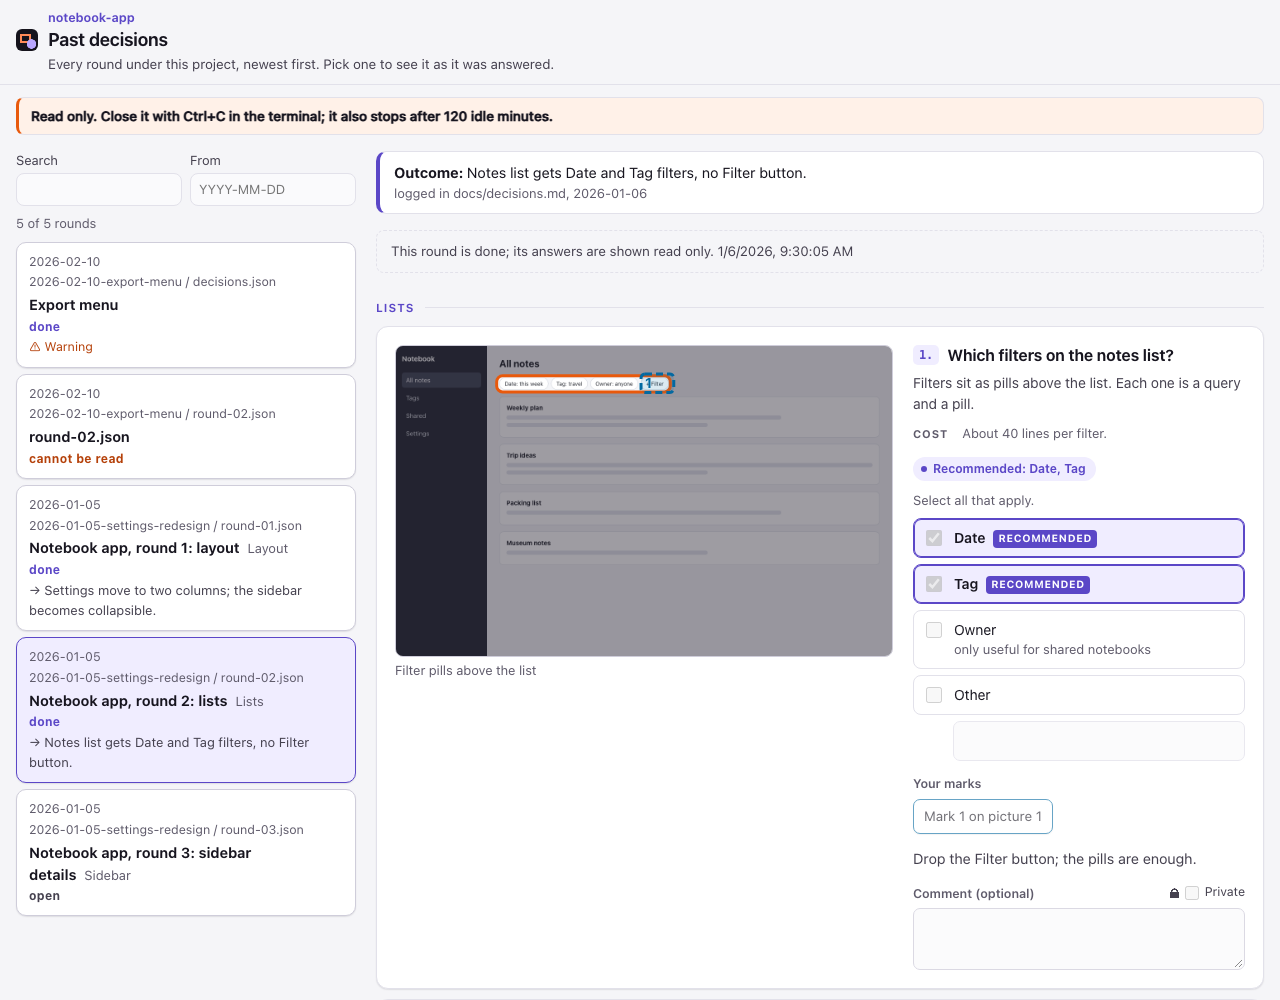
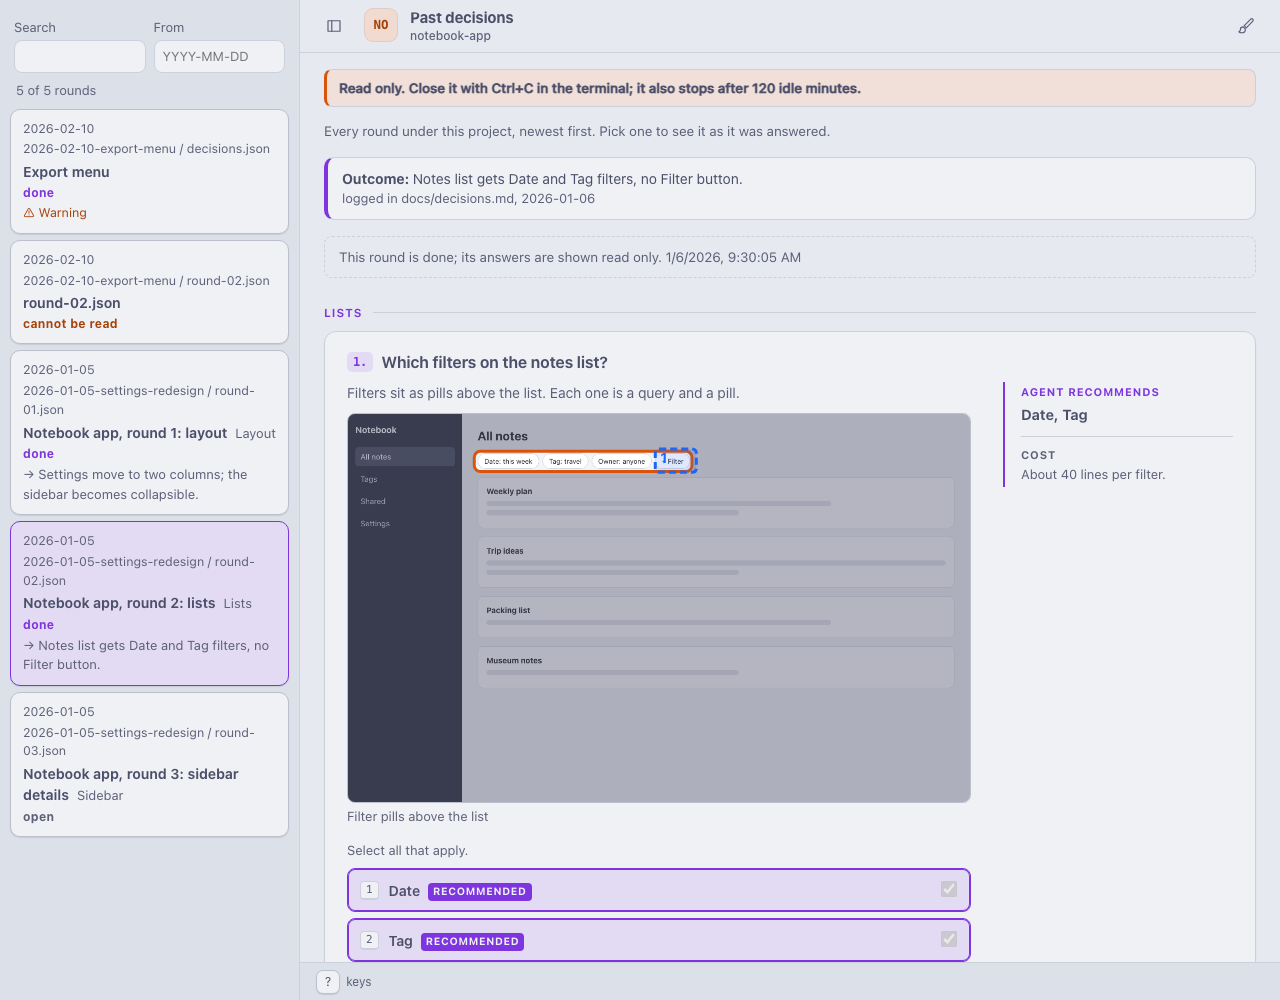
Re-make the page pictures from today's sidebar layout
Decision: the screenshots in media/ and the README's page demo are made
again from today's page, and a new media/demo/screenshots.py makes the
seven PNGs from examples/demo and examples/history (headless Chrome, en-US,
UTC), reusing record_page.py's DevTools driver. Alt texts describe the new
pictures.

Context: since 0.3.0 a round's page lists its rounds in a sidebar, but the
pictures still showed tabs on top, and no script made the PNGs. Both
scripts started Signoff with the caller's environment, so on a machine with
a running inbox the run became a waiter in the user's own Signoff home.

Consequence: `python3 media/demo/screenshots.py` and
`python3 media/demo/record_page.py` re-make every picture of the page, each
in a Signoff home of its own. record_page.py now draws the mark before it
ticks Owner, since the options sit under the picture.

diff --git a/media/demo/screenshots.py b/media/demo/screenshots.py
@@ -1,0 +1,174 @@
+#!/usr/bin/env python3
+"""Make the screenshots in media/ from the real page: page-light, page-dark, page-phone, marks, board, summary and
+history (.png).
+
+    python3 media/demo/screenshots.py            (from the repository root)
+
+It copies the four rounds of examples/demo and examples/history into a temporary folder, starts Signoff on them,
+and drives a headless Chrome with record_page.py's DevTools driver: accept round 1, tick Owner and draw a mark in
+round 2, shoot light, dark and phone width, the board in round 3, then accept the rest, shoot the Summary and press
+Done; last, the --history page. The data is synthetic, the browser runs in en-US and UTC.
+Needs Google Chrome or Chromium (set CHROME to its path if it is not found).
+"""
+import base64
+import json
+import os
+import re
+import shutil
+import subprocess
+import sys
+import tempfile
+import time
+from pathlib import Path
+
+from record_page import ROOT, Browser
+
+MEDIA = ROOT / "media"
+SIGNOFF = str(ROOT / "plugin" / "signoff" / "signoff.py")
+
+
+def serve(args, work):
+    # A home of its own, so a live inbox on this machine neither takes the run nor lends it its theme.
+    env = dict(os.environ, SIGNOFF_INBOX_HOME=str(work / "no-home"))
+    server = subprocess.Popen([sys.executable, "-I", "-B", SIGNOFF, "--no-open"] + args, stdout=subprocess.PIPE,
+                              stderr=subprocess.PIPE, universal_newlines=True, env=env)
+    link = re.search(r"http://\S+", server.stderr.readline())
+    if not link:
+        server.kill()
+        sys.exit("signoff printed no start link")
+    return server, link.group(0)
+
+
+def main():
+    work = Path(tempfile.mkdtemp(prefix="signoff-shots-"))
+    demo = ROOT / "examples" / "demo"
+    topic = work / "demo" / "notebook-app" / ".signoff" / "2026-01-05-settings"  # a project: its name in the header
+    for name in ("mockups", "boards", "notes"):
+        shutil.copytree(str(demo / name), str(topic / name))
+    for n in range(1, 5):
+        shutil.copyfile(str(demo / ("round-%02d.json" % n)), str(topic / ("round-%02d.json" % n)))
+    history = work / "notebook-app"
+    shutil.copytree(str(ROOT / "examples" / "history"), str(history))
+    servers = []
+    b = Browser(str(work / "profile"))
+
+    def size(width, height, scale=1, mobile=False):
+        b.call("Emulation.setDeviceMetricsOverride", width=width, height=height, deviceScaleFactor=scale, mobile=mobile)
+
+    def scheme(value):
+        b.call("Emulation.setEmulatedMedia", features=[{"name": "prefers-color-scheme", "value": value}])
+        time.sleep(0.4)
+
+    def box(selector):
+        return json.loads(b.js("JSON.stringify(document.querySelector(%r).getBoundingClientRect())" % selector))
+
+    def shot(name, selector=None):
+        params = {"format": "png"}
+        if selector:  # just that element: a window tall enough for all of it, the element at the top
+            size(1280, 2000)
+            b.js("document.querySelector(%r).scrollIntoView({block: 'start'})" % selector)
+            time.sleep(0.5)
+            r = box(selector)
+            params["clip"] = {"x": r["x"], "y": r["y"], "width": r["width"], "height": r["height"], "scale": 1}
+        (MEDIA / name).write_bytes(base64.b64decode(b.call("Page.captureScreenshot", **params)["data"]))
+        if selector:
+            size(1280, 1000)
+        print("wrote media/%s" % name)
+
+    def press(holder, pattern):  # the first element under holder whose text matches, such as a board's switch
+        if not b.js("(e => e ? (e.click(), true) : false)([...document.querySelectorAll(%r)].find(e => /%s/"
+                    ".test(e.textContent)))" % (holder, pattern)):
+            sys.exit("nothing to press: %s %s" % (holder, pattern))
+        time.sleep(0.6)
+
+    def mouse(kind, x, y):
+        b.call("Input.dispatchMouseEvent", type=kind, x=x, y=y, button="left", clickCount=1,
+               buttons=0 if kind == "mouseReleased" else 1)
+
+    def click(selector):
+        b.js("document.querySelector(%r).scrollIntoView({block: 'center'})" % selector)
+        r = box(selector)
+        if not r["width"]:  # hidden: the click would land on nothing
+            sys.exit("not shown: %s" % selector)
+        x, y = r["x"] + r["width"] / 2, r["y"] + r["height"] / 2
+        mouse("mousePressed", x, y)
+        mouse("mouseReleased", x, y)
+        time.sleep(0.6)
+
+    def top():
+        b.js("scrollTo(0, 0); document.querySelector('body > main').scrollTop = 0")
+        time.sleep(0.3)
+
+    try:
+        b.call("Emulation.setLocaleOverride", locale="en-US")
+        b.call("Emulation.setTimezoneOverride", timezoneId="UTC")
+        server, start = serve([str(topic), "--timeout", "5"], work)
+        servers.append(server)
+        size(1280, 1000)
+        scheme("light")
+        b.call("Page.navigate", url=start)
+        time.sleep(1.5)
+        click("#accept-0")                                    # round 1 accepted; on to round 2
+        click("#r1-i0-o2")                                    # tick Owner, not recommended
+        layer = "#panel-1 svg.marks"                          # a mark over the Filter button, with a comment
+        b.js("document.querySelector(%r).scrollIntoView({block: 'center'})" % layer)
+        r = box(layer)
+        x0, y0 = r["x"] + r["width"] * 0.49, r["y"] + r["height"] * 0.09
+        x1, y1 = r["x"] + r["width"] * 0.56, r["y"] + r["height"] * 0.15
+        mouse("mousePressed", x0, y0)
+        mouse("mouseMoved", (x0 + x1) / 2, (y0 + y1) / 2)
+        mouse("mouseReleased", x1, y1)
+        time.sleep(0.3)
+        b.js("document.querySelector('#panel-1 .mark-comment').focus()")
+        b.call("Input.insertText", text="Drop the Filter button; the pills are enough.")
+        time.sleep(1.2)                                       # let the autosave land
+        shot("marks.png", "#panel-1 section.item")
+        top()
+        shot("page-light.png")
+        scheme("dark")
+        shot("page-dark.png")
+        click("#tab-2")                                       # round 3: the live board, dark at 768 px
+        press("#panel-2 .board-bar button", "^Dark$")
+        press("#panel-2 .board-bar button", "^768 px$")
+        time.sleep(1.0)                                       # the board loads again in its new theme
+        shot("board.png", "#panel-2 section.item")
+        scheme("light")
+        size(390, 844, 2, True)                               # a phone opens in Focus; the hash picks round 2
+        page = b.js("location.href.split('#')[0]")
+        b.js("location.hash = 'focus=1/filters'")
+        b.call("Page.reload")
+        time.sleep(1.5)
+        top()
+        shot("page-phone.png")
+        size(1280, 1000)                                      # the same page wide again, out of Focus
+        b.call("Page.navigate", url=page)
+        time.sleep(1.5)
+        for ri in (1, 2, 3):
+            click("#tab-%d" % ri)
+            if ri == 3:
+                click("#r3-i0-o1")                            # Wording: the other label
+            click("#accept-%d" % ri)
+        click("#tab-4")
+        shot("summary.png")
+        click("#done")
+        _, err = server.communicate(timeout=30)
+        if server.returncode != 0:
+            sys.exit("signoff exited %d: %s" % (server.returncode, err[-300:]))
+        server, start = serve(["--history", str(history)], work)
+        servers.append(server)
+        b.call("Page.navigate", url=start)
+        time.sleep(1.5)
+        press("#h-list .h-entry", "round 2:")
+        top()
+        shot("history.png")
+    finally:
+        for server in servers:
+            if server.poll() is None:
+                server.terminate()
+                server.wait(10)
+        b.close()
+    print("the run's folder stays in %s" % work)
+
+
+if __name__ == "__main__":
+    main()

diff --git a/media/demo/record_page.py b/media/demo/record_page.py
@@ -4,7 +4,7 @@
     python3 media/demo/record_page.py            (from the repository root)
 
 It copies two rounds of examples/demo into a temporary folder, starts Signoff on them, and drives a headless
-Chrome over the DevTools protocol: pick an option, draw a mark, accept both rounds, look at the Summary, press
+Chrome over the DevTools protocol: draw a mark, pick an option, accept both rounds, look at the Summary, press
 Done. Each step is a screenshot; ffmpeg turns them into a GIF. The data is the synthetic demo, the browser runs
 in en-US and UTC, and the dot that moves around is drawn by this script to show where the pointer is.
 Needs Google Chrome or Chromium (set CHROME to its path if it is not found) and ffmpeg.
@@ -132,7 +132,7 @@ def main():
     frames.mkdir()
     server = subprocess.Popen([sys.executable, "-I", "-B", str(ROOT / "plugin" / "signoff" / "signoff.py"), str(topic),
                                "--no-open", "--timeout", "3"], stdout=subprocess.PIPE, stderr=subprocess.PIPE,
-                              universal_newlines=True)
+                              universal_newlines=True, env=dict(os.environ, SIGNOFF_INBOX_HOME=str(work / "no-home")))
     start = re.search(r"http://\S+", server.stderr.readline()).group(0)
     b = Browser(str(work / "profile"))
     shots = []
@@ -180,7 +180,6 @@ def main():
         b.call("Page.navigate", url=start)
         time.sleep(1.5)
         point(640, 400, 1.8)                                   # the page: two rounds, a Summary, Done waiting
-        click("#r0-i0-o2", 1.0)                                # tick Owner too
         x, y = center("#panel-0 svg.marks")                    # draw a mark over the Filter button
         layer = json.loads(b.js("JSON.stringify(document.querySelector('#panel-0 svg.marks').getBoundingClientRect())"))
         x0, y0 = layer["x"] + layer["width"] * 0.49, layer["y"] + layer["height"] * 0.09
@@ -199,6 +198,8 @@ def main():
             b.call("Input.insertText", text=part)
             shot(0.35)
         time.sleep(1.0)                                        # let the autosave land
+        scroll_to("#r0-i0-o2")                                 # the options sit under the picture
+        click("#r0-i0-o2", 1.0)                                # tick Owner too
         scroll_to("#accept-0")
         click("#accept-0", 1.6)                                # accept: on to the next round
         click("#r1-i0-o1", 1.0)                                # Wording: the other label

diff --git a/docs/page.md b/docs/page.md
@@ -2,7 +2,7 @@
 
 <picture>
   <source media="(prefers-color-scheme: dark)" srcset="../media/page-dark.png">
-  <img alt="A Signoff page with four rounds as tabs: the first done, the second changed since it was accepted, the third accepted, the fourth open; a mockup with an orange box and a blue mark, the options with the recommendation preselected, and Other" src="../media/page-light.png">
+  <img alt="A Signoff page with the project's name and monogram in the header and four rounds in a sidebar, the first accepted and the second open, its three items listed under them; a mockup with the agent's orange box and the user's blue mark, the agent's recommendation and the cost in the margin, and the options under the picture with the two recommended ones and one more ticked" src="../media/page-light.png">
 </picture>
 
 - **The project's name** and its two-letter monogram (the same as in the inbox) start the header, and the name
@@ -54,7 +54,7 @@
   round there is nothing to accept: Done does both.
 - **A notice** from the agent, such as "Synthetic data only", shows as a banner under the header.
 
-![The Summary tab: each round with its state, every answer, flags where an answer departs from the recommendation, has a comment or marks, comments quoted, and a filter for All, With comment and Not the recommendation](../media/summary.png)
+![The Summary: every round accepted in the sidebar; each round with its state and every answer, flags where an answer departs from the recommendation or has a mark, a filter for All, With comment and Not the recommendation, and Done at the end](../media/summary.png)
 
 ## Marks
 
@@ -63,7 +63,7 @@ picture you mean, in blue so it stands apart from the agent's orange boxes, and 
 mouse, **Add a mark** puts one in the middle of the picture; on the mark's button the arrow keys move it and
 Shift with the arrow keys resizes it. **Remove** deletes it.
 
-![A mockup with the agent's orange box and the user's blue mark numbered 1, and the mark's comment under the options](../media/marks.png)
+![An item: a mockup with the agent's orange box and the user's blue mark numbered 1 over a button, and the mark's comment under the options](../media/marks.png)
 
 ## Live mockups (boards)
 
@@ -71,7 +71,7 @@ Instead of a picture, an item can show a board: the agent's own HTML page, runni
 light or dark and for a 1280, 768 or 390 pixel wide view, scaled to fit. Toggles and menus in it work; it cannot
 read the Signoff page or save anything.
 
-![A board shown dark at 768 pixels wide, with the theme and width switches above it](../media/board.png)
+![An item with a board shown dark at 768 pixels wide, the theme and width switches above it, the recommendation and cost in the margin, and the options under it](../media/board.png)
 
 ## Keyboard
 
@@ -110,4 +110,4 @@ themes), the page uses a black and white high-contrast set instead. The palettes
 Its own labels are in English, or in Hungarian when the decisions file's `lang` says `hu`; your content can be
 in any language.
 
-<img alt="The same page at phone width: the header, the notice, the tabs, and the mockup above the question" src="../media/page-phone.png" width="320">
+<img alt="The same page at phone width, in Focus: the header, the notice, item 1 of 3 with Previous and Next, the question and its mockup with the mark, the recommendation under it, and Accept this round at the bottom" src="../media/page-phone.png" width="320">

diff --git a/CHANGELOG.md b/CHANGELOG.md
@@ -7,6 +7,7 @@
 - **The MCP server is marked experimental** in its docs, the README and its module docstring: the plugin does not register it, and the per-agent snippets are untested.
 - **A smaller skill:** the `signoff` skill's `SKILL.md`, which loads whole each time the skill is used, went from about 17 KB to about 9 KB. The less used fields of a round moved word for word to `fields.md` beside it, and what to do once Signoff exits (the exit codes, the answers file, turning answers into actions) to `answers.md`; SKILL.md tells the agent when to read each, and now also says to put nothing secret in a board or an attachment.
 - **Issue trackers:** the `signoff-inbox` skill tells the agent, in a project that keeps its tasks in an issue tracker, to copy into the todo file only the issues that wait on you, each with its link, and to keep them in step. Signoff makes no call to the tracker.
+- **Fresh pictures:** the screenshots in the docs and the README's page demo show today's page, rounds in a sidebar, not tabs on top. `python3 media/demo/screenshots.py` now makes the screenshots as `record_page.py` makes the demo, and both run Signoff in a home of their own, so a running inbox on your machine no longer takes their run.
 
 ## 0.4.0
 

diff --git a/README.md b/README.md
@@ -11,7 +11,7 @@ from a notification and the agent carries on. Nothing leaves your machine.**
 [![test](https://github.com/lumi-collective/signoff/actions/workflows/test.yml/badge.svg)](https://github.com/lumi-collective/signoff/actions/workflows/test.yml)
 [![License: MIT](https://img.shields.io/badge/license-MIT-blue.svg)](LICENSE)
 
-![Two rounds of questions as tabs: a box ticked, a mark drawn on a mockup with a comment, the first round accepted, the second accepted with Ctrl+Enter, the Summary tab, then Done](media/demo-page.gif)
+![Two rounds of questions in a sidebar: a mark drawn on a mockup with a comment, a box ticked, the first round accepted, the second accepted with Ctrl+Enter, the Summary, then Done](media/demo-page.gif)
 
 Signoff is a Claude Code plugin: a small Python server, one static page, and a skill that teaches the agent
 when and how to use them. The agent writes a JSON file of decisions for each round of questions. Signoff serves

diff --git a/docs/development.md b/docs/development.md
@@ -48,9 +48,10 @@ python3 -I -B tests/e2e_browser.py
 ```
 
 Everything in `media/` is synthetic. The screenshots come from `examples/demo/` and `examples/history/` in
-headless Chrome, en-US, UTC. The two demos are made from the repository root:
+headless Chrome, en-US, UTC. They and the two demos are made from the repository root:
 
 ```
+python3 media/demo/screenshots.py      # media/*.png: the page, the Summary, marks, a board, the past decisions
 python3 media/demo/record_page.py      # media/demo-page.gif: the real page, driven over the DevTools protocol
 vhs media/demo-agent.tape              # media/demo-agent.gif: needs vhs; media/demo/setup.sh builds its folder
 ```

diff --git a/docs/history.md b/docs/history.md
@@ -25,4 +25,4 @@ the page shows that line with the round:
 Nothing on this page can be changed and nothing is written: it has no save route and no Done. Close it with
 Ctrl+C; it also stops after the idle timeout.
 
-![The past-decisions page: rounds with dates, status and outcomes on the left, the chosen round read only on the right](../media/history.png)
+![The past-decisions page: the project's name in the header, rounds with dates, status and outcomes in the sidebar, the chosen round with its outcome read only on the right](../media/history.png)
